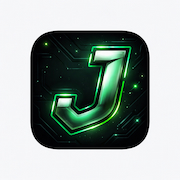
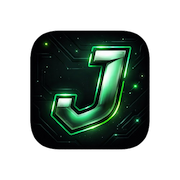
Add service worker for offline support and caching, update app name in manifest

diff --git a/index.html b/index.html
@@ -10,6 +10,7 @@
   <link rel="icon" type="image/png" sizes="192x192" href="./icons/icon-192.png" />
   <link rel="icon" type="image/png" sizes="512x512" href="./icons/icon-512.png" />
   <meta name="theme-color" content="#060606" />
+  <meta name="application-name" content="Ficha Jeff" />
   <meta name="mobile-web-app-capable" content="yes" />
   <meta name="apple-mobile-web-app-capable" content="yes" />
   <meta name="apple-mobile-web-app-status-bar-style" content="black-translucent" />
@@ -91,6 +92,118 @@
     .app {
       position: relative;
       z-index: 1;
+    }
+
+    body.is-booting {
+      overflow: hidden;
+    }
+
+    .boot-splash {
+      position: fixed;
+      inset: 0;
+      z-index: 30;
+      display: grid;
+      place-items: center;
+      padding: 28px;
+      background:
+        radial-gradient(circle at 50% 22%, rgba(200, 245, 66, 0.16), transparent 24%),
+        radial-gradient(circle at 50% 78%, rgba(245, 166, 35, 0.12), transparent 28%),
+        linear-gradient(180deg, rgba(5, 5, 5, 0.98), rgba(10, 10, 10, 0.98));
+      transition: opacity .45s ease, visibility .45s ease;
+    }
+
+    .boot-splash.is-hidden {
+      opacity: 0;
+      visibility: hidden;
+      pointer-events: none;
+    }
+
+    .boot-card {
+      width: min(100%, 360px);
+      padding: 28px 24px 22px;
+      border-radius: 28px;
+      border: 1px solid rgba(255,255,255,.08);
+      background: linear-gradient(180deg, rgba(255,255,255,.05), rgba(255,255,255,.025));
+      backdrop-filter: blur(18px);
+      text-align: center;
+      box-shadow: 0 24px 80px rgba(0,0,0,.35);
+    }
+
+    .boot-icon-wrap {
+      position: relative;
+      width: 96px;
+      height: 96px;
+      margin: 0 auto 18px;
+    }
+
+    .boot-icon-wrap::before {
+      content: '';
+      position: absolute;
+      inset: -10px;
+      border-radius: 28px;
+      border: 1px solid rgba(200,245,66,.22);
+      animation: splashPulse 1.8s ease-out infinite;
+    }
+
+    .boot-icon {
+      width: 100%;
+      height: 100%;
+      display: block;
+      border-radius: 24px;
+      box-shadow: 0 14px 30px rgba(0,0,0,.32);
+    }
+
+    .boot-label {
+      font-family: 'DM Mono', monospace;
+      font-size: 11px;
+      letter-spacing: 2px;
+      text-transform: uppercase;
+      color: var(--accent);
+      margin-bottom: 10px;
+    }
+
+    .boot-title {
+      font-family: 'Bebas Neue', sans-serif;
+      font-size: clamp(36px, 7vw, 52px);
+      line-height: .95;
+      letter-spacing: 2px;
+      margin-bottom: 12px;
+    }
+
+    .boot-copy {
+      color: #c8c8c8;
+      font-size: 14px;
+      line-height: 1.7;
+      margin-bottom: 18px;
+    }
+
+    .boot-progress {
+      position: relative;
+      height: 6px;
+      border-radius: 999px;
+      overflow: hidden;
+      background: rgba(255,255,255,.08);
+    }
+
+    .boot-progress::before {
+      content: '';
+      position: absolute;
+      inset: 0;
+      background: linear-gradient(90deg, var(--accent), var(--accent2));
+      transform-origin: left center;
+      animation: splashLoad 1.15s ease-in-out infinite;
+    }
+
+    @keyframes splashPulse {
+      0% { opacity: .8; transform: scale(.95); }
+      70% { opacity: 0; transform: scale(1.14); }
+      100% { opacity: 0; transform: scale(1.14); }
+    }
+
+    @keyframes splashLoad {
+      0% { transform: scaleX(.15); opacity: .65; }
+      55% { transform: scaleX(.82); opacity: 1; }
+      100% { transform: scaleX(1); opacity: .82; }
     }
 
     .container {
@@ -1239,7 +1352,18 @@
     }
   </style>
 </head>
-<body>
+<body class="is-booting">
+  <div class="boot-splash" id="bootSplash" aria-hidden="true">
+    <div class="boot-card">
+      <div class="boot-icon-wrap">
+        <img class="boot-icon" src="./icons/icon-180.png" alt="" width="96" height="96" />
+      </div>
+      <div class="boot-label">App instalado</div>
+      <div class="boot-title">FICHA JEFF</div>
+      <p class="boot-copy">Carregando sua ficha com acesso r&aacute;pido, visual de app e suporte offline.</p>
+      <div class="boot-progress"></div>
+    </div>
+  </div>
   <div class="app">
     <div class="container hero-wrap">
       <header class="hero reveal">
@@ -2466,6 +2590,27 @@
         el.addEventListener('click', () => openExModal(el, EXERCISES[name]));
       }
     });
+
+    const bootSplash = document.getElementById('bootSplash');
+    const hideBootSplash = () => {
+      if (!bootSplash || bootSplash.classList.contains('is-hidden')) return;
+      bootSplash.classList.add('is-hidden');
+      document.body.classList.remove('is-booting');
+    };
+
+    window.addEventListener('load', () => {
+      window.setTimeout(hideBootSplash, 550);
+    });
+
+    window.setTimeout(hideBootSplash, 2200);
+
+    if ('serviceWorker' in navigator) {
+      window.addEventListener('load', () => {
+        navigator.serviceWorker.register('./sw.js').catch(err => {
+          console.error('Falha ao registrar service worker:', err);
+        });
+      });
+    }
   </script>
 </body>
 </html>

diff --git a/sw.js b/sw.js
@@ -1,0 +1,66 @@
+const CACHE_NAME = 'ficha-jeff-v1';
+const APP_SHELL = [
+  './',
+  './index.html',
+  './manifest.json',
+  './icons/icon-180.png',
+  './icons/icon-192.png',
+  './icons/icon-512.png'
+];
+
+self.addEventListener('install', event => {
+  event.waitUntil(
+    caches.open(CACHE_NAME).then(cache => cache.addAll(APP_SHELL))
+  );
+  self.skipWaiting();
+});
+
+self.addEventListener('activate', event => {
+  event.waitUntil(
+    caches.keys().then(keys =>
+      Promise.all(
+        keys
+          .filter(key => key !== CACHE_NAME)
+          .map(key => caches.delete(key))
+      )
+    ).then(() => self.clients.claim())
+  );
+});
+
+self.addEventListener('fetch', event => {
+  const { request } = event;
+
+  if (request.method !== 'GET') return;
+
+  const url = new URL(request.url);
+  if (url.origin !== self.location.origin) return;
+
+  if (request.mode === 'navigate') {
+    event.respondWith(
+      fetch(request)
+        .then(response => {
+          const copy = response.clone();
+          caches.open(CACHE_NAME).then(cache => cache.put('./index.html', copy));
+          return response;
+        })
+        .catch(() => caches.match('./index.html'))
+    );
+    return;
+  }
+
+  event.respondWith(
+    caches.match(request).then(cached => {
+      if (cached) return cached;
+
+      return fetch(request).then(response => {
+        if (!response || response.status !== 200 || response.type === 'opaque') {
+          return response;
+        }
+
+        const copy = response.clone();
+        caches.open(CACHE_NAME).then(cache => cache.put(request, copy));
+        return response;
+      });
+    })
+  );
+});